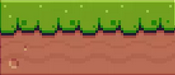
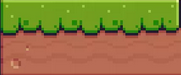
Terrain + Sky

diff --git a/core/src/com/mygdx/game/MyGdxGame.java b/core/src/com/mygdx/game/MyGdxGame.java
@@ -1,32 +1,60 @@
 package com.mygdx.game;
 
 import com.badlogic.gdx.ApplicationAdapter;
+import com.badlogic.gdx.Gdx;
+import com.badlogic.gdx.graphics.OrthographicCamera;
 import com.badlogic.gdx.graphics.Texture;
 import com.badlogic.gdx.graphics.g2d.SpriteBatch;
 import com.badlogic.gdx.utils.ScreenUtils;
 
 public class MyGdxGame extends ApplicationAdapter {
-	SpriteBatch batch;
-	Texture img;
-	
-	@Override
-	public void create () {
-		batch = new SpriteBatch();
-		img = new Texture("background.jpg");
-  }
+    static SpriteBatch batch;
+    Texture terrain;
+    Texture sky;
+    int gx = 0;
+    int gy = 0;
+    float gwidth, gheight;
+    float SCR_WIDTH;
+    float SCR_HEIGHT;
+    OrthographicCamera camera;
 
-	@Override
-	public void render () {
-		//comment
-		ScreenUtils.clear(1, 0, 0, 1);
-		batch.begin();
-		batch.draw(img, 0, 0);
-		batch.end();
-	}
-	
-	@Override
-	public void dispose () {
-		batch.dispose();
-		img.dispose();
-	}
+    SolidPlatform solids[] = new SolidPlatform[15];
+
+    @Override
+    public void create() {
+
+        batch = new SpriteBatch();
+        terrain = new Texture("Terrain.PNG");
+        sky = new Texture("Sky.PNG");
+        SCR_WIDTH = Gdx.graphics.getWidth();
+        SCR_HEIGHT = Gdx.graphics.getHeight();
+        gwidth = SCR_WIDTH / 9;
+        gheight = SCR_HEIGHT / 9.6f;
+        camera = new OrthographicCamera();
+        camera.setToOrtho(false, SCR_WIDTH, SCR_HEIGHT);
+        for (int i = 0; i < solids.length; i++) {
+            SolidPlatform g = new SolidPlatform(terrain, gx, gy, gwidth, gheight);
+            solids[i] = g;
+            gx += gwidth;
+
+        }
+    }
+
+    @Override
+    public void render() {
+        batch.begin();
+        batch.draw(sky,0,0, SCR_WIDTH,SCR_HEIGHT);
+        for (int j = 0; j < solids.length; j++) {
+            solids[j].exist();
+        }
+
+        batch.end();
+    }
+
+    @Override
+    public void dispose() {
+        batch.dispose();
+        terrain.dispose();
+
+    }
 }

diff --git a/core/src/com/mygdx/game/SolidPlatform.java b/core/src/com/mygdx/game/SolidPlatform.java
@@ -1,0 +1,19 @@
+package com.mygdx.game;
+
+import com.badlogic.gdx.graphics.Texture;
+
+public class SolidPlatform {
+    Texture plat;
+    int x, y;
+    float width, height;
+    SolidPlatform(Texture plat, int x, int y, float width, float height){
+        this.plat = plat;
+        this.x = x;
+        this.y = y;
+        this.width = width;
+        this.height = height;
+    }
+    public void exist(){
+        MyGdxGame.batch.draw(plat, x, y, width, height);
+    }
+}
